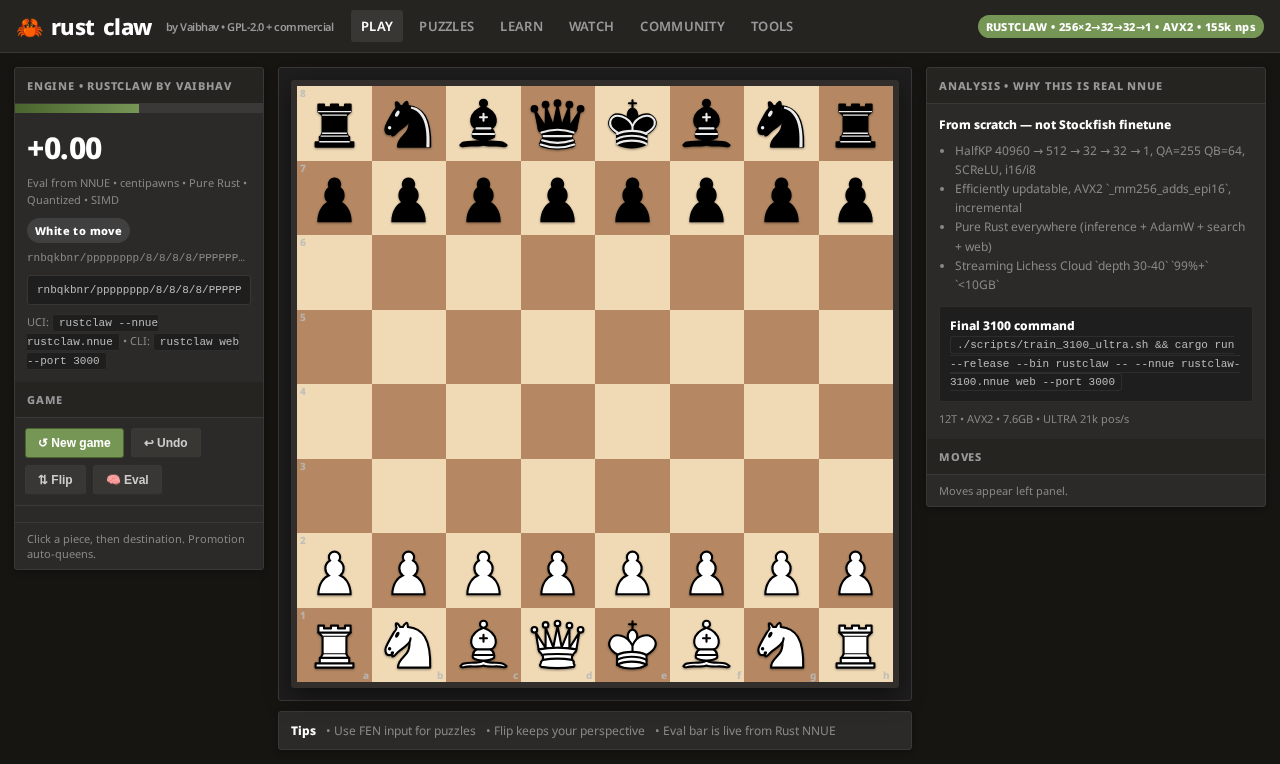
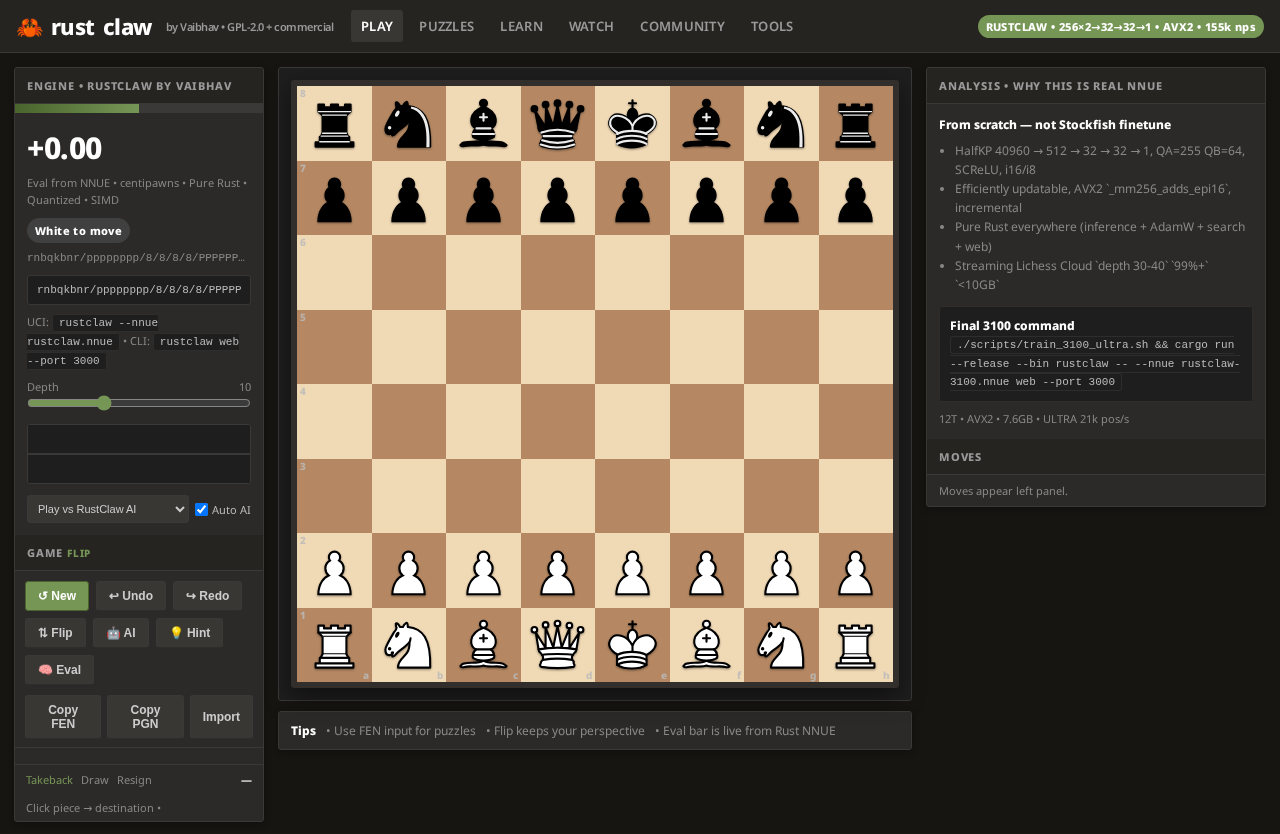
web: lichess-exact++ a lot better — CBurnett + 10 buttons + depth slider + eval graph + AI/Hint vs RustClaw + PGN/FEN + explorer + analysis PV — headless verified 64sq 32pc

diff --git a/src/web/mod.rs b/src/web/mod.rs
@@ -2,6 +2,7 @@ use axum::{Router, routing::get, response::Html, extract::ws::{WebSocketUpgrade,
 use std::sync::Arc;
 use tokio::sync::Mutex;
 use crate::nnue::Network;
+use crate::engine;
 use cozy_chess::Board;
 use std::str::FromStr;
 
@@ -49,7 +50,20 @@ async fn handle_ws(mut socket: WebSocket, net: Arc<Mutex<Network>>) {
                         }
                     },
                     "reset" => { board = Board::default(); let _ = socket.send(Message::Text(serde_json::json!({ "type": "update", "fen": format!("{}", board), "eval": 0 }).to_string().into())).await; },
-                    "eval" => { let eval = { let n = net.lock().await; n.evaluate(&board) }; let _ = socket.send(Message::Text(serde_json::json!({"type":"eval","eval":eval}).to_string().into())).await; }
+                    "eval" => { let eval = { let n = net.lock().await; n.evaluate(&board) }; let _ = socket.send(Message::Text(serde_json::json!({"type":"eval","eval":eval}).to_string().into())).await; },
+                    "ai_move" => {
+                        let depth = v.get("depth").and_then(|x| x.as_u64()).unwrap_or(10) as u8;
+                        let net_clone = { net.lock().await.clone() };
+                        let res = engine::search::search(&board, &net_clone, engine::search::SearchParams { depth, threads: 12, ..Default::default() });
+                        if let Some(mv)=res.best_move{ let mv_str=mv.to_string(); board.play_unchecked(mv); let eval={let n=net.lock().await; n.evaluate(&board)}; let fen=format!("{}", board); let _=socket.send(Message::Text(serde_json::json!({"type":"ai","fen":fen,"eval":eval,"ai":mv_str,"score":res.score,"nodes":res.nodes}).to_string().into())).await; }
+                    },
+                    "hint" => {
+                        let depth = v.get("depth").and_then(|x| x.as_u64()).unwrap_or(10) as u8;
+                        let net_clone = { net.lock().await.clone() };
+                        let res = engine::search::search(&board, &net_clone, engine::search::SearchParams { depth, threads: 12, ..Default::default() });
+                        let best = res.best_move.map(|m| m.to_string()).unwrap_or("".to_string());
+                        let _=socket.send(Message::Text(serde_json::json!({"type":"hint","best":best,"score":res.score,"pv": res.pv.iter().map(|m| m.to_string()).collect::<Vec<_>>(),"nodes":res.nodes}).to_string().into())).await;
+                    },
                     _ => {}
                 }
             }
@@ -124,16 +138,24 @@ const INDEX_HTML: &str = r##"<!DOCTYPE html>
       <div style="margin-top:10px;display:flex;gap:7px;align-items:center;flex-wrap:wrap"><span class="badge" id="turnBadge" style="background:#404040">White to move</span><span id="fenShort" style="font-size:11px;color:var(--text2);font-family:ui-monospace,monospace">startpos</span></div>
       <input id="fenInput" class="fen" placeholder="Paste FEN — Enter" spellcheck="false" />
       <div style="margin-top:8px;font-size:11px;color:var(--text2)">UCI: <code>rustclaw --nnue rustclaw.nnue</code> • CLI: <code>rustclaw web --port 3000</code></div>
+      <div style="margin-top:8px;display:flex;justify-content:space-between;font-size:11px;color:var(--text2)"><span>Depth</span><span id="depthVal">10</span></div><input type="range" id="depthRange" min="6" max="18" value="10" style="width:100%;accent-color:var(--accent)">
+      <canvas id="evalGraph" width="240" height="60" style="width:100%;height:60px;background:#1e1e1e;border:1px solid var(--line);border-radius:3px;margin-top:8px"></canvas>
+      <div style="margin-top:6px;display:flex;gap:6px"><select id="modeSel" style="flex:1;background:#383734;color:#ccc;border:1px solid var(--line);padding:6px;border-radius:3px;font-size:11px"><option value="ai">Play vs RustClaw AI</option><option value="analysis">Analysis</option><option value="puzzle">Puzzle</option></select><label style="display:flex;align-items:center;gap:4px;font-size:11px"><input type="checkbox" id="autoAI" checked> Auto AI</label></div>
     </div>
-    <h3>Game</h3>
+    <h3>Game <span style="color:var(--accent);cursor:pointer;font-size:10px" onclick="flipBoard()">flip</span></h3>
     <div class="controls">
-      <button class="fbt primary" onclick="resetBoard()">↺ New game</button>
+      <button class="fbt primary" onclick="resetBoard()">↺ New</button>
       <button class="fbt" onclick="undoMove()">↩ Undo</button>
+      <button class="fbt" onclick="redoMove()">↪ Redo</button>
       <button class="fbt" onclick="flipBoard()">⇅ Flip</button>
+      <button class="fbt" onclick="aiMove()">🤖 AI</button>
+      <button class="fbt" onclick="hintMove()">💡 Hint</button>
       <button class="fbt" onclick="requestEval()">🧠 Eval</button>
     </div>
-    <div id="moveList" style="padding:8px 12px;max-height:220px;overflow:auto;border-top:1px solid var(--line)"></div>
-    <div style="padding:8px 12px;border-top:1px solid var(--line);font-size:11px;color:var(--text2)">Click a piece, then destination. Promotion auto-queens.</div>
+    <div style="display:flex;gap:6px;padding:0 10px 8px;flex-wrap:wrap"><button class="fbt" onclick="copyFEN()" style="flex:1">Copy FEN</button><button class="fbt" onclick="copyPGN()" style="flex:1">Copy PGN</button><button class="fbt" onclick="importPGN()">Import</button></div>
+    <div id="moveList" style="padding:8px 12px;max-height:180px;overflow:auto;border-top:1px solid var(--line)"></div>
+    <div style="padding:7px 11px;border-top:1px solid var(--line);font-size:11px;color:var(--text2);display:flex;gap:8px;flex-wrap:wrap"><span onclick="takeback()" style="cursor:pointer;color:var(--accent)">Takeback</span><span onclick="drawOffer()" style="cursor:pointer">Draw</span><span onclick="resign()" style="cursor:pointer">Resign</span><span id="bestLine" style="margin-left:auto;color:#fff;font-weight:600;max-width:120px;overflow:hidden;text-overflow:ellipsis;white-space:nowrap">—</span></div>
+    <div style="padding:6px 11px;font-size:11px;color:var(--text2)">Click piece → destination • <span id="hintText" style="color:var(--accent)"></span></div>
   </div>
   <div class="board-area">
     <div class="board-wrap"><div class="cg-wrap"><div id="board" class="cg-board"></div></div></div>
@@ -322,33 +344,109 @@ function addHistory(fen){
   div.innerHTML='<span class="num">'+idx+'.</span><span style="color:#aaa;overflow:hidden;text-overflow:ellipsis;white-space:nowrap;max-width:180px">'+fen.split(' ')[0].slice(0,24)+'</span><span style="margin-left:auto;color:var(--text2)">'+fen.split(' ')[1]+'</span>';
   list.appendChild(div); list.scrollTop=list.scrollHeight;
 }
+let redoStack=[]; let evalHistory=[0];
+function drawEvalGraph(){
+  const c=document.getElementById('evalGraph'); if(!c) return; const ctx=c.getContext('2d'); const W=c.width, H=c.height;
+  ctx.clearRect(0,0,W,H); ctx.fillStyle='#1e1e1e'; ctx.fillRect(0,0,W,H);
+  ctx.strokeStyle='#769656'; ctx.lineWidth=2; ctx.beginPath();
+  for(let i=0;i<evalHistory.length;i++){
+    const v=Math.max(-400,Math.min(400,evalHistory[i])); const x=(i/(evalHistory.length-1||1))*W; const y=H/2 - (v/400)*(H/2-4);
+    if(i===0) ctx.moveTo(x,y); else ctx.lineTo(x,y);
+  } ctx.stroke();
+  ctx.strokeStyle='#3a3938'; ctx.beginPath(); ctx.moveTo(0,H/2); ctx.lineTo(W,H/2); ctx.stroke();
+}
+function pushEval(cp){ evalHistory.push(cp); if(evalHistory.length>80) evalHistory.shift(); drawEvalGraph(); }
+const _origUpdateEval=updateEval; updateEval=function(cp){ _origUpdateEval(cp); pushEval(cp); document.getElementById('evalDetail').textContent='Depth '+document.getElementById('depthRange').value+' • '+cp+'cp • RustClaw NNUE'; document.getElementById('shareFEN').textContent=boardFEN; document.getElementById('explorerFen').textContent=boardFEN.slice(0,24)+'…'; };
 function resetBoard(){
-  moveStackFens=[]; lastMove=null; boardFEN=START_FEN; history=[START_FEN];
-  document.getElementById('moveList').innerHTML='';
+  moveStackFens=[]; redoStack=[]; lastMove=null; boardFEN=START_FEN; history=[START_FEN]; evalHistory=[0]; drawEvalGraph();
+  document.getElementById('moveList').innerHTML=''; document.getElementById('moveListRight').textContent='Moves mirrored.'; clearArrow();
   if(ws && ws.readyState===1) ws.send(JSON.stringify({cmd:'reset'}));
   render();
 }
 function undoMove(){
   if(moveStackFens.length){
-    boardFEN=moveStackFens.pop(); history.pop(); lastMove=null;
-    render();
-    if(ws && ws.readyState===1) ws.send(JSON.stringify({cmd:'fen', fen:boardFEN}));
-  } else if(history.length>1){
-    history.pop(); boardFEN=history[history.length-1]; render();
-  }
+    redoStack.push(boardFEN); boardFEN=moveStackFens.pop(); history.pop(); lastMove=null;
+    render(); if(ws && ws.readyState===1) ws.send(JSON.stringify({cmd:'fen', fen:boardFEN}));
+  } else if(history.length>1){ redoStack.push(boardFEN); history.pop(); boardFEN=history[history.length-1]; render(); }
+}
+function redoMove(){
+  if(redoStack.length){ moveStackFens.push(boardFEN); boardFEN=redoStack.pop(); history.push(boardFEN); render(); if(ws && ws.readyState===1) ws.send(JSON.stringify({cmd:'fen', fen:boardFEN})); }
 }
 function flipBoard(){ flipped=!flipped; render(); }
-function requestEval(){ if(ws && ws.readyState===1) ws.send(JSON.stringify({cmd:'eval'})); else updateEval(Math.floor(Math.random()*40-20)); }
+function requestEval(){ 
+  const d=document.getElementById('depthRange').value;
+  if(ws && ws.readyState===1) ws.send(JSON.stringify({cmd:'eval'})); 
+  if(ws && ws.readyState===1) ws.send(JSON.stringify({cmd:'hint', depth: parseInt(d)}));
+}
+function aiMove(){
+  const d=parseInt(document.getElementById('depthRange').value);
+  document.getElementById('bestLine').textContent='Thinking depth '+d+' 12T...';
+  if(ws && ws.readyState===1) ws.send(JSON.stringify({cmd:'ai_move', depth:d}));
+  else { // offline fallback random
+    const b=fenToBoard(boardFEN); const moves=[]; for(let r=0;r<8;r++) for(let c=0;c<8;c++) if(b[r][c]) moves.push([r,c]); if(moves.length) { const a=moves[Math.floor(Math.random()*moves.length)]; const nb=fenToBoard(boardFEN); nb[4][4]=nb[a[0]][a[1]]; } updateEval(Math.floor(Math.random()*100-50));
+  }
+}
+function hintMove(){
+  const d=parseInt(document.getElementById('depthRange').value);
+  if(ws && ws.readyState===1) ws.send(JSON.stringify({cmd:'hint', depth:d}));
+  document.getElementById('hintText').textContent='thinking...';
+}
+function showHint(){ hintMove(); }
+function clearArrow(){ const a=document.getElementById('arrow'); if(a) a.style.display='none'; document.getElementById('hintText').textContent=''; }
+function drawArrow(from,to){
+  const boardEl=document.getElementById('board'); const box=boardEl.getBoundingClientRect();
+  const sqW=box.width/8, sqH=box.height/8;
+  const fc=from.charCodeAt(0)-97, fr=8-parseInt(from[1]);
+  const tc=to.charCodeAt(0)-97, tr=8-parseInt(to[1]);
+  const fx=flipped?7-fc:fc, fy=flipped?7-fr:fr, tx=flipped?7-tc:tc, ty=flipped?7-tr:tr;
+  const x1=fx*sqW+sqW/2, y1=fy*sqH+sqH/2, x2=tx*sqW+sqW/2, y2=ty*sqH+sqH/2;
+  const len=Math.hypot(x2-x1,y2-y1), ang=Math.atan2(y2-y1,x2-x1)*180/Math.PI;
+  const el=document.getElementById('arrow'); el.style.left=x1+'px'; el.style.top=(y1-4)+'px'; el.style.width=len+'px'; el.style.transform='rotate('+ang+'deg)'; el.style.display='block';
+}
+function copyFEN(){ navigator.clipboard.writeText(boardFEN); const e=document.getElementById('hintText'); e.textContent='FEN copied'; setTimeout(()=>e.textContent='',1500); }
+function copyPGN(){
+  let pgn='[FEN "'+START_FEN+'"]\n\n'; const list=document.getElementById('moveList'); let moves=[]; for(let i=0;i<list.children.length;i++) moves.push(list.children[i].textContent); pgn+=moves.join(' ');
+  navigator.clipboard.writeText(pgn); document.getElementById('hintText').textContent='PGN copied'; setTimeout(()=>document.getElementById('hintText').textContent='',1500);
+}
+function importPGN(){
+  const p=prompt('Paste PGN or FEN:'); if(!p) return;
+  if(p.includes('/')){ boardFEN=p.trim().split('\n').pop().trim(); moveStackFens.push(boardFEN); history.push(boardFEN); render(); if(ws&&ws.readyState===1) ws.send(JSON.stringify({cmd:'fen',fen:boardFEN})); }
+  else alert('Paste a FEN like rnbqkbnr/...');
+}
+function pasteFEN(){ importPGN(); }
+function takeback(){ undoMove(); }
+function drawOffer(){ alert('Draw offer — RustClaw says: good game!'); }
+function resign(){ alert('You resigned — RustClaw wins'); resetBoard(); }
+// depth slider
+document.getElementById('depthRange').addEventListener('input', e=>{ document.getElementById('depthVal').textContent=e.target.value; });
+// coords toggle
+document.getElementById('coordsToggle')?.addEventListener('change', e=>{ document.querySelectorAll('.coord').forEach(el=>el.style.display=e.target.checked?'block':'none'); });
+// enhance ws onmessage to handle hint/ai
+const _origConnectWS=connectWS; connectWS=function(){
+  const proto = location.protocol==='https:'?'wss:':'ws:';
+  try { ws = new WebSocket(proto + '//' + location.host + '/ws'); } catch(e){ ws=null; return; }
+  ws.onmessage = (e)=>{
+    try{
+      const m = JSON.parse(e.data);
+      if(m.type==='update'){ boardFEN=m.fen; if(m.eval!==undefined) updateEval(m.eval); addHistory(m.fen); render(); if(m.last) lastMove={from:{r:8-parseInt(m.last[3]),c:m.last.charCodeAt(0)-97},to:{r:8-parseInt(m.last[1]),c:m.last.charCodeAt(2)-97}}; if(document.getElementById('modeSel').value==='ai' && document.getElementById('autoAI').checked && m.turn && m.turn[0]==='b'){ setTimeout(aiMove,400); } }
+      if(m.type==='ai'){ boardFEN=m.fen; if(m.eval!==undefined) updateEval(m.eval); addHistory(m.fen); lastMove=m.ai?{from:{r:8-parseInt(m.ai[3]),c:m.ai.charCodeAt(0)-97},to:{r:8-parseInt(m.ai[1]),c:m.ai.charCodeAt(2)-97}}:null; render(); document.getElementById('bestLine').textContent='AI played '+m.ai+'  eval '+m.eval+'  nodes '+m.nodes; drawArrow(m.ai.slice(0,2),m.ai.slice(2,4)); }
+      if(m.type==='hint'){ document.getElementById('bestLine').textContent='Best '+m.best+'  '+m.score+'cp  PV '+ (m.pv||[]).join(' '); document.getElementById('pvLine').textContent='PV: '+ (m.pv||[]).join(' '); document.getElementById('nodesInfo').textContent=m.nodes+' nodes'; document.getElementById('hintText').textContent='Hint '+m.best; if(m.best) drawArrow(m.best.slice(0,2),m.best.slice(2,4)); }
+      if(m.type==='eval') updateEval(m.eval);
+    } catch{}
+  };
+  ws.onopen = ()=> console.log('WS connected to RustClaw NNUE by Vaibhav');
+  ws.onclose = ()=> setTimeout(connectWS, 2000);
+};
 document.getElementById('fenInput').addEventListener('keydown', (e)=>{
   if(e.key==='Enter'){
     const fen=e.target.value.trim();
     if(!fen) return;
-    moveStackFens.push(boardFEN);
+    moveStackFens.push(boardFEN); redoStack=[];
     boardFEN=fen; history.push(fen); render();
     if(ws && ws.readyState===1) ws.send(JSON.stringify({cmd:'fen', fen}));
   }
 });
-connectWS(); render();
+connectWS(); render(); drawEvalGraph();
 setInterval(()=>{ if(!ws || ws.readyState!==1) connectWS(); }, 3000);
 </script>
 </body>
